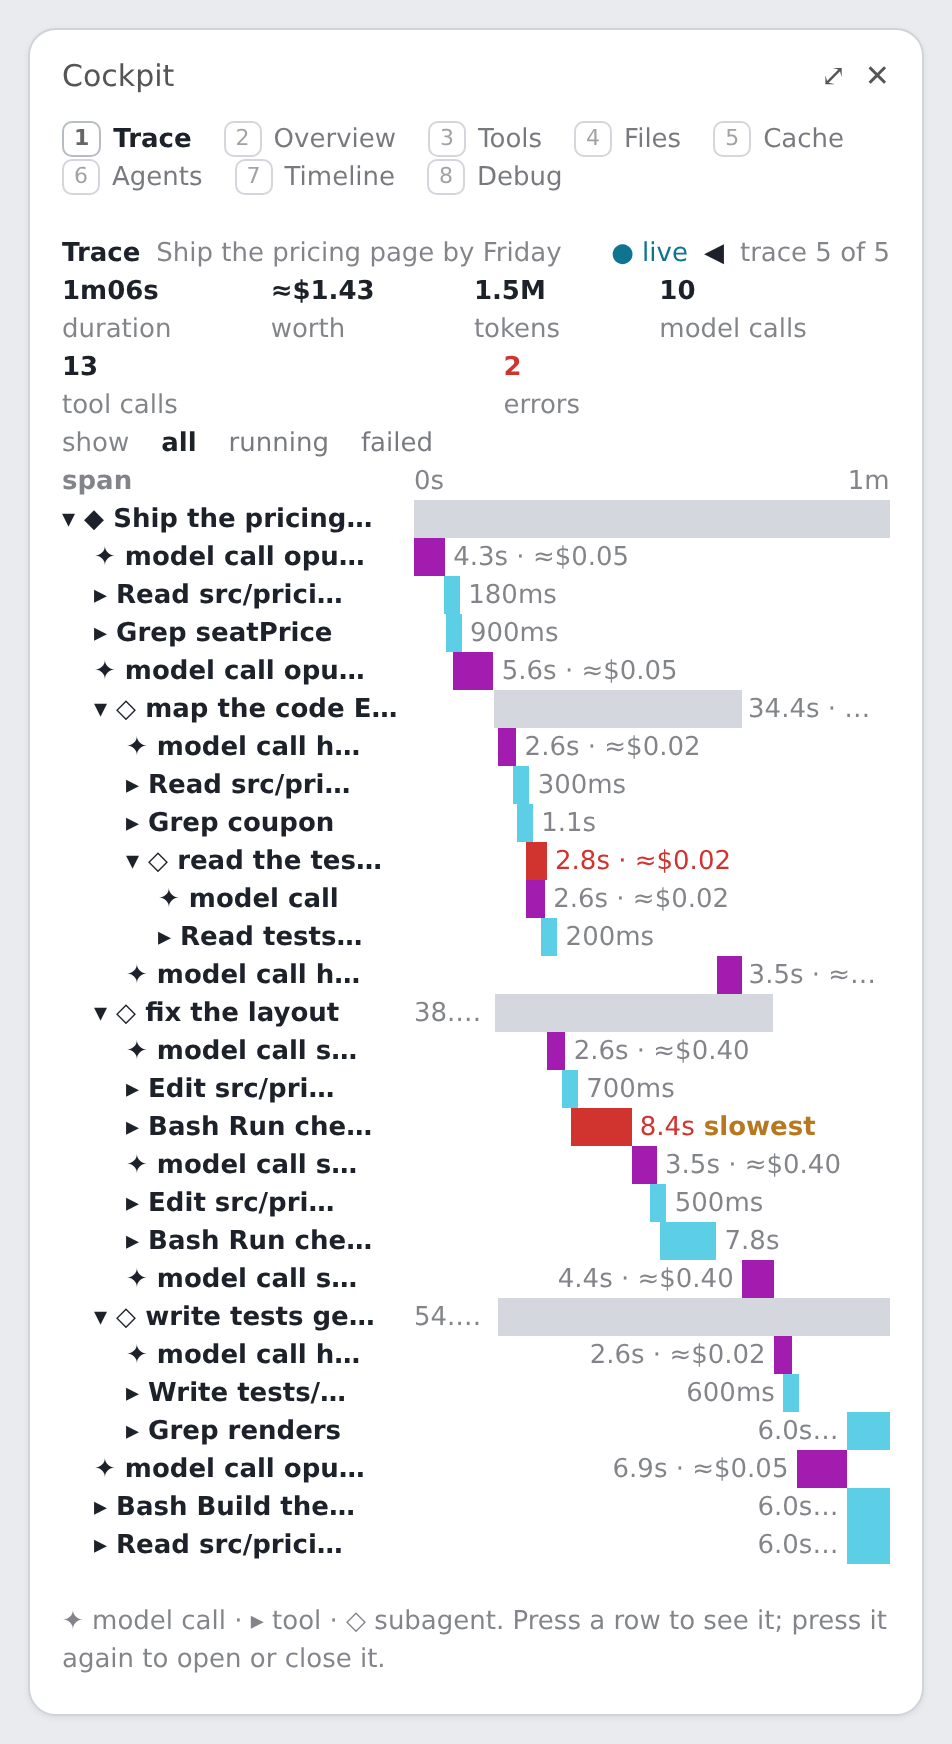
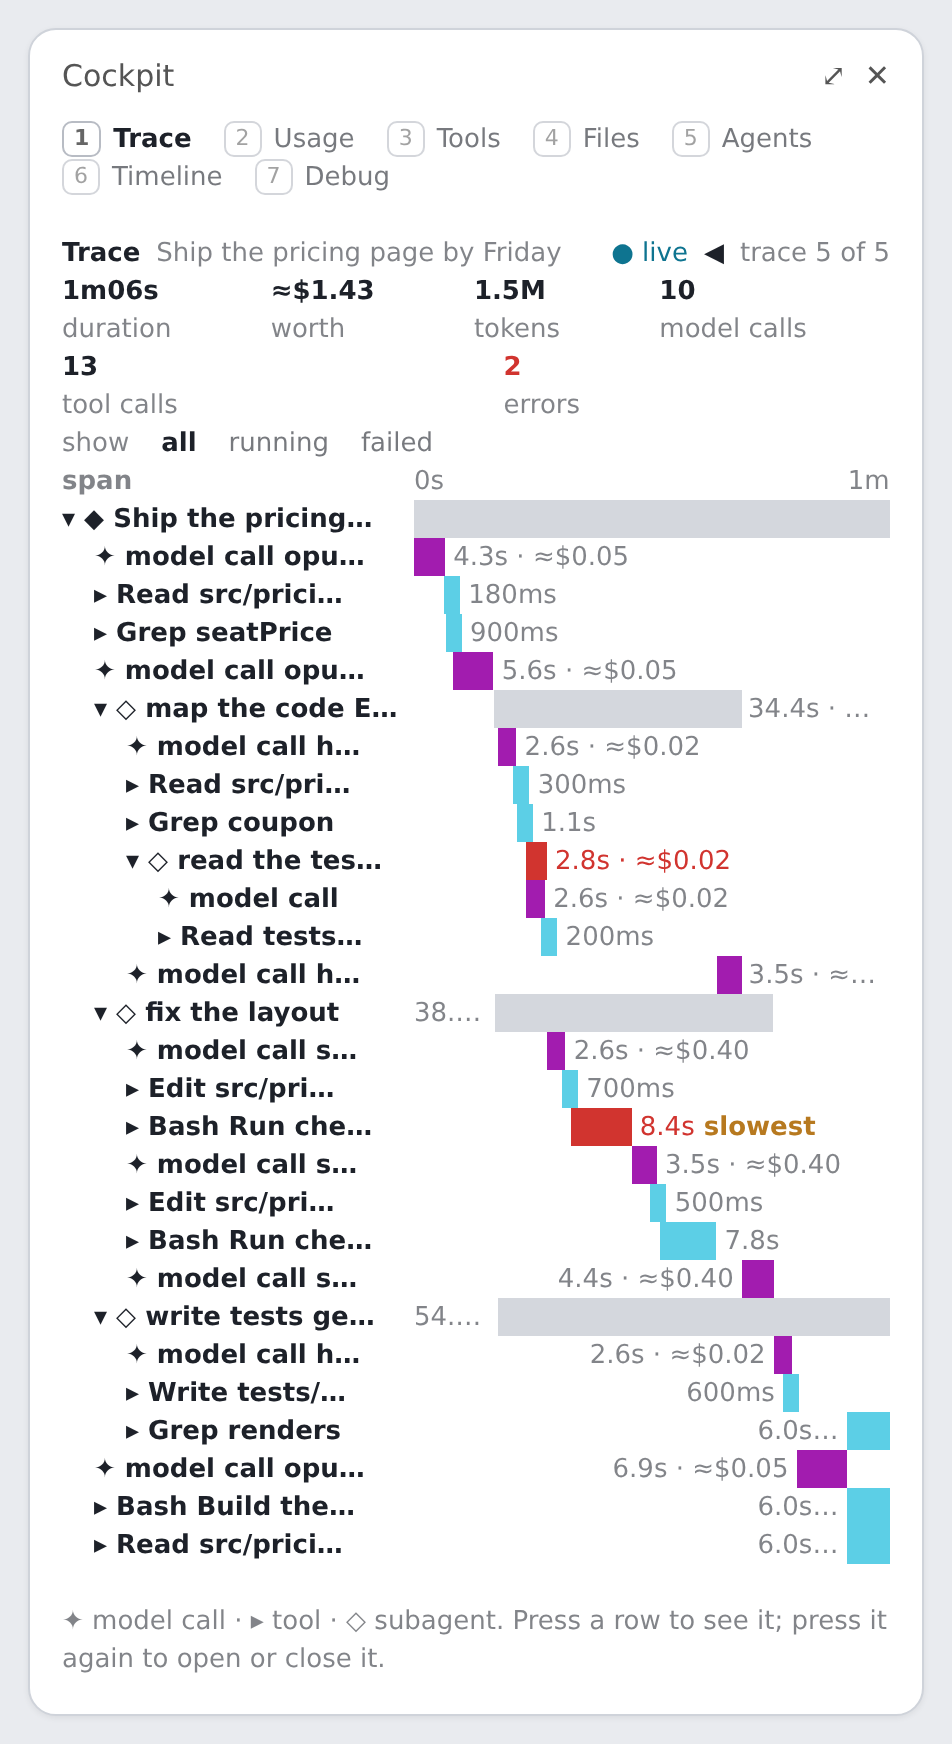
cockpit 0.15.0: usage tab merges overview and cache; agents.md matches the 0.14 band

Changed region(s): [[0.2437, 0.0619, 0.8834, 0.1239], [0.1218, 0.0929, 0.2132, 0.1239]]

diff --git a/lib/views.js b/lib/views.js
@@ -7,13 +7,12 @@ import { mean, std, pctl, hitRate, runningAgents, planProgress, agentStats, show
 
 export const TABS = [
   { id: 'trace', label: 'Trace', key: '1' },
-  { id: 'overview', label: 'Overview', key: '2' },
+  { id: 'usage', label: 'Usage', key: '2' },
   { id: 'tools', label: 'Tools', key: '3' },
   { id: 'files', label: 'Files', key: '4' },
-  { id: 'cache', label: 'Cache', key: '5' },
-  { id: 'agents', label: 'Agents', key: '6' },
-  { id: 'timeline', label: 'Timeline', key: '7' },
-  { id: 'debug', label: 'Debug', key: '8' },
+  { id: 'agents', label: 'Agents', key: '5' },
+  { id: 'timeline', label: 'Timeline', key: '6' },
+  { id: 'debug', label: 'Debug', key: '7' },
 ]
 
 // ---------- formatting ----------
@@ -171,10 +170,11 @@ function overview(Box, Text, S, now) {
   if (S.cwd) sess.push(kv('workspace', S.cwd, { wrap: 'truncate-start' }))
   out.push(card(Box, Text, 'Session', sess))
 
-  const run = Object.values(S.running)
-  if (run.length) out.push(card(Box, Text, 'Running now', run.slice(0, 5).map((r) => T(Text, '▸ ' + r.tool + '  ' + fmtMs(now - r.t) + (r.agentId ? '  (agent)' : ''), { color: 'cyan', wrap: 'wrap' }))))
   return out
 }
+
+// Usage: what the session spends (context, plan limits, money) and how the prompt cache serves it. What runs is in Trace.
+const usageTab = (Box, Text, S, now) => [...overview(Box, Text, S, now), ...cacheTab(Box, Text, S, now)]
 
 function toolsTab(Box, Text, S, now, cols) {
   const wide = cols >= NARROW
@@ -569,7 +569,7 @@ function spanCard(Box, Text, S, sp, root, end, kids, now) {
   return card(Box, Text, name, rows)
 }
 
-const BODIES = { trace: traceTab, overview, tools: toolsTab, files: filesTab, cache: cacheTab, agents: agentsTab, timeline: timelineTab, debug: debugTab }
+const BODIES = { trace: traceTab, usage: usageTab, tools: toolsTab, files: filesTab, agents: agentsTab, timeline: timelineTab, debug: debugTab }
 
 export function paneBody(Box, Text, tab, S, now, cols = 100, Button, ctl) {
   const fn = BODIES[tab] || traceTab

diff --git a/.shots/shots.test.ts b/.shots/shots.test.ts
@@ -13,7 +13,7 @@ const PANE = (columns: number) =>
     props: { title: 'Cockpit', isFocused: true, bodyColumns: columns - 4, placement: 'inline', scroll: { offset: 0, bodyRows: 40 }, view: {} },
   }) as const
 const BAND = (columns: number) => ({ plugin: 'cockpit', component: 'AbovePrompt', props: { hasSurvey: false, isWorking: false, maxRows: 10, bodyColumns: columns, scroll: { offset: 0, bodyRows: 3 }, view: {} } }) as const
-const TABS = ['trace', 'overview', 'tools', 'files', 'cache', 'agents', 'timeline', 'debug']
+const TABS = ['trace', 'usage', 'tools', 'files', 'agents', 'timeline', 'debug']
 
 // A tool call as the session records it: the model's tool_use, `ms` of work on the mocked clock, then the tool_result.
 let clock: any
@@ -168,7 +168,7 @@ test('dump trees for screenshots', async ($: any, on: any) => {
   for (const w of ['wf-1', 'wf-2', 'wf-3']) await $.tool.call({ tool: 'Grep', agentId: w, pattern: 'x' } as any)
   for (const columns of [52, 120]) {
     const ui = await $.ui.mount({ ...PANE(columns), surface: 'desktop' } as any)
-    for (const id of ['trace', 'overview', 'agents']) {
+    for (const id of ['trace', 'usage', 'agents']) {
       await ui.press({ key: 'tab-' + id })
       dump[`${id}-big-${columns}`] = await ui.drawn()
     }

diff --git a/tests/cockpit.test.ts b/tests/cockpit.test.ts
@@ -20,7 +20,7 @@ async function seen(ui: any, surface: string, needle: RegExp) {
   return ui.find({ type: 'Text', text: needle })
 }
 
-const TABS = ['trace', 'overview', 'tools', 'files', 'cache', 'agents', 'timeline', 'debug']
+const TABS = ['trace', 'usage', 'tools', 'files', 'agents', 'timeline', 'debug']
 
 // Stubs for everything Claude Code would answer, then drive one turn through the mod's hooks.
 async function boot($: any, on: any, opts: { limits?: any[]; budget?: number; spend?: boolean } = {}) {
@@ -180,7 +180,7 @@ test('a model switch shows what it cost the cache, and the Cache tab lists it', 
     expect(await seen(band, surface, /model →/)).toBeUndefined() // switches live in the Cache tab, not the band
     await band.unmount()
     const ui = await $.ui.mount({ ...PANE, surface } as any)
-    await ui.press({ key: 'tab-cache' })
+    await ui.press({ key: 'tab-usage' })
     expect(await ui.find({ type: 'Text', text: /re-cached 93k tokens/ })).toBeDefined()
     await ui.unmount()
   }

diff --git a/README.md b/README.md
@@ -5,7 +5,7 @@ A Claude Code mod: one recorder, many views. Built against Claude Code 2.1.289. 
 ## What you see
 
 **Band above the prompt**: pill badges justified edge to edge, spread evenly over the fewest rows they need (3-3-1 rather than 4-2-1; at most three rows on Desktop, two in the terminal, dropping the lowest-priority pills if they do not fit). On Desktop they are drawn as an SVG (rounded, tinted, icons, thin bars, light and dark theme); in the terminal as colored blocks.
-- context: how full, of what window size (the exact token count is on the Overview tab)
+- context: how full, of what window size (the exact token count is on the Usage tab)
 - *subscription*: 5-hour and weekly windows with reset times
 - *API / enterprise*: spend limit (when the account has one), **chat** cost, and **month** (spent so far → projected, against the budget you set). None of these show on a subscription.
 - *subscription*: a **worth** pill, a guess of what this chat's usage would cost at API rates (≈$ chat, ≈$ month), next to the fee you set with `/cockpit plan 100`
@@ -17,15 +17,14 @@ A Claude Code mod: one recorder, many views. Built against Claude Code 2.1.289. 
 - **tools pill** (only while tools run): how many run in parallel right now, how many of them are inside subagents, and the most seen at once
 - **crew pill** (only while subagents are running): done / total, one square per subagent in spawn order (blue running, grey done, red failed, amber stopped, hollow = planned and not started; brighter as its context fills), and failed / running counts. Crews over forty are grouped, each square showing the busiest state in its group.
 
-**`/cockpit` pane** (keys 1-8 switch tabs):
+**`/cockpit` pane** (keys 1-7 switch tabs):
 1. **Trace** (opens first): where the time went in one prompt. Each model call, tool call and subagent is a row with a bar on a shared time axis, `duration · cost` after it, nested under the subagent that ran it; failed spans are red, the slowest call is marked, running ones grow live. Press a row to see its detail (model, tokens, input, the error text or the subagent's answer); press a subagent again to open or close it. A turn its subagents wake while they still run stays in the same trace; ◀ ▶ page through earlier prompts.
-2. **Overview**: the same gauges as the pills, as bars with the detail a pill has no room for (tokens, reset times, cache hit rate, task, plan and agent progress, month against budget), then session counters (turns, tool calls, failures, re-reads, compactions), turn-time stats, tokens, money, model, workspace, and what is running now. The pills are not repeated here: they live above the prompt
+2. **Usage**: context, the 5-hour and weekly windows with reset times, task, plan and agent progress, money (API accounts) or worth (subscriptions), session counters and turn-time stats; then the prompt cache: main-window countdown, the subagent caches, read / wrote / new totals, every model or effort switch with the tokens it re-cached, and a stacked bar per request
 3. **Tools**: per tool calls, failures, mean, sd, p50, p95, p99, with a p95 bar (last 500 calls per tool)
 4. **Files**: reads, edits and repeated reads per file. Paths are relative to the workspace folder; a file outside it is shown in full with ↗
-5. **Cache**: main-window countdown, the **subagent caches** (how many are still warm, when the next cools),  read / wrote / new / output totals, every model or effort switch with the tokens it forced the cache to re-write, a stacked bar per request
-6. **Agents**: (Desktop: the square grid first) fleet bar with the most running at once, the plan's progress, **per-subagent statistics** (time, turns, tools, tokens, cost: mean, p50, p95, max), **by model** and **by type** tables, then the agents themselves. Up to 24 it is a full tree under the loop that spawned each, with step progress and the result handed back. Past that it lists only what needs a look (running, failed, the latest finished), one line each; `/cockpit all` lists everything. Loops that send events but were never announced (a workflow's agents, engine forks) are picked up from those events and marked *unlisted*.
-7. **Timeline**: spawns, subagent results, session messages, model changes, compactions
-8. **Debug**: which events the recorder has actually seen, and when. Start here if a panel is empty.
+5. **Agents**: (Desktop: the square grid first) fleet bar with the most running at once, the plan's progress, **per-subagent statistics** (time, turns, tools, tokens, cost: mean, p50, p95, max), **by model** and **by type** tables, then the agents themselves. Up to 24 it is a full tree under the loop that spawned each, with step progress and the result handed back. Past that it lists only what needs a look (running, failed, the latest finished), one line each; `/cockpit all` lists everything. Loops that send events but were never announced (a workflow's agents, engine forks) are picked up from those events and marked *unlisted*.
+6. **Timeline**: spawns, subagent results, session messages, model changes, compactions
+7. **Debug**: which events the recorder has actually seen, and when. Start here if a panel is empty.
 
 **Toasts** (each fires once; several of the same kind arrive as one): cache expiring in 30 s, context 80% / 90%, a tool running too long, a subagent quiet for over 2 minutes, the same file read 3 times with no edit. "Too long" is 90 s until a tool has 8 recorded calls, then `max(45 s, 3 × its p95)`. Note the `Agent` tool lasts as long as the whole subagent run, so it trips this on any subagent over 90 s ("Agent running 90s (slow for this tool)"); that is expected, not a fault.
 

diff --git a/AGENTS.md b/AGENTS.md
@@ -14,7 +14,7 @@ Who reads this: any agent working on this repo, and the owner. For what the plug
 | `lib/model.js` | State (`newState`) and pure mutators (`onToolStart`, `onStepEnd`, `onSpawn`, `alerts`, ...). No `$`, no I/O, so it is unit-testable. Also pricing (`PRICES`) and the toast rules in `alerts()`. |
 | `lib/views.js` | Pane tabs (`TABS`, `BODIES`) and formatting helpers, built from `Box` / `Text` passed in. |
 | `lib/pills.js` | `pillSpecs()` decides *what* pills to show (pure data); terminal renderer (colored Boxes); `band()` and `paneBody()`. |
-| `lib/svgband.js` | Desktop renderer: pills as one SVG, row balancing and justification, crew squares, `dotGridSvg`. |
+| `lib/svgband.js` | Desktop renderer: pills as one SVG in greedy rows (fixed order, no re-balancing), justified; `dotGridSvg`. |
 | `tests/cockpit.test.ts` | Tests using `claude-code/testing`. |
 | `Makefile` | Every command (below). `make` alone lists them. |
 | `.shots/` | The render pipeline behind `make render`. Dot-folder, so `claude plugin test .` skips it. |
@@ -51,7 +51,7 @@ Layout rules: tables use `minWidth` cells (never cut a number) plus one `flex` c
 - Add new state to `newState()` with a comment, and keep it JSON-serialisable: `snapshot()` / `restore()` persist it. Bump caps (`cap()`) on anything that grows.
 - Put logic in `model.js` or `pills.js` as pure functions; keep `register.js` thin.
 - Money (cost, month, budget) only shows when `S.account === 'api'`. Never show a bill on a subscription; cost there is an API-rate estimate.
-- Pills carry a priority (`pri`, higher drops first when space runs out). The crew pill uses `ownRow`.
+- Pills carry a priority (`pri`, higher drops first when space runs out) and a fixed place in `ORDER` (`lib/pills.js`), so none moves when another comes or goes. The 1 s tick redraws only when the band would read differently or something runs.
 - Text width in SVG is estimated (`textW`), there is no layout engine; check wide strings visually.
 - No aliases, no one-line wrappers, no code kept for old callers: change the callers and delete the old code. The one exception is reading state an older version saved (`load()` in `hooks/register.js`), with a comment naming that version.
 - Match surrounding style: no semicolons, single quotes, short comments that explain why.

diff --git a/assets/README.md b/assets/README.md
@@ -26,17 +26,17 @@ Where the time went: every model call, tool call and subagent of one prompt on a
 
 ![Trace tab](trace-big-120.png)
 
-## Overview tab
+## Usage tab
 
-Budget bars, session stats, what is running. [52 columns](overview-52.png).
+Context, plan limits, money, session stats, and the prompt cache: window, hit rate, switches, each request. [52 columns](usage-52.png).
 
-![Overview tab](overview-120.png)
+![Usage tab](usage-120.png)
 
-## Overview tab, big crew
+## Usage tab, big crew
 
-Budget bars, session stats, what is running. [52 columns](overview-big-52.png).
+Context, plan limits, money, session stats, and the prompt cache: window, hit rate, switches, each request. [52 columns](usage-big-52.png).
 
-![Overview tab](overview-big-120.png)
+![Usage tab](usage-big-120.png)
 
 ## Tools tab
 
@@ -49,12 +49,6 @@ Calls, failures and durations per tool. [52 columns](tools-52.png).
 Reads, edits and re-reads per file. [52 columns](files-52.png).
 
 ![Files tab](files-120.png)
-
-## Cache tab
-
-Cache hit rate, lifetimes, switches that re-cached. [52 columns](cache-52.png).
-
-![Cache tab](cache-120.png)
 
 ## Agents tab
 

diff --git a/DESIGN.md b/DESIGN.md
@@ -1,6 +1,6 @@
 # DESIGN.md
 
-The plan for cockpit's next version: a trace waterfall ("where did the time go") in place of the stats tables, and a calmer band. The data it needs is in [SCHEMA.md](SCHEMA.md). Status: steps 1 to 3 built in 0.13.0 (span recorder, realistic seed, Trace tab), step 4 in 0.14.0 (band); folding the old tabs is not started.
+The plan for cockpit's next version: a trace waterfall ("where did the time go") in place of the stats tables, and a calmer band. The data it needs is in [SCHEMA.md](SCHEMA.md). Status: steps 1 to 3 built in 0.13.0 (span recorder, realistic seed, Trace tab), step 4 in 0.14.0 (band), and Overview and Cache merged into Usage in 0.15.0. Tools, Agents and Timeline stay until Trace covers them: per-tool p95 stats, step progress and the plan, the 100+ agent summary, and session messages are not in Trace yet.
 
 ## What is wrong now
 
